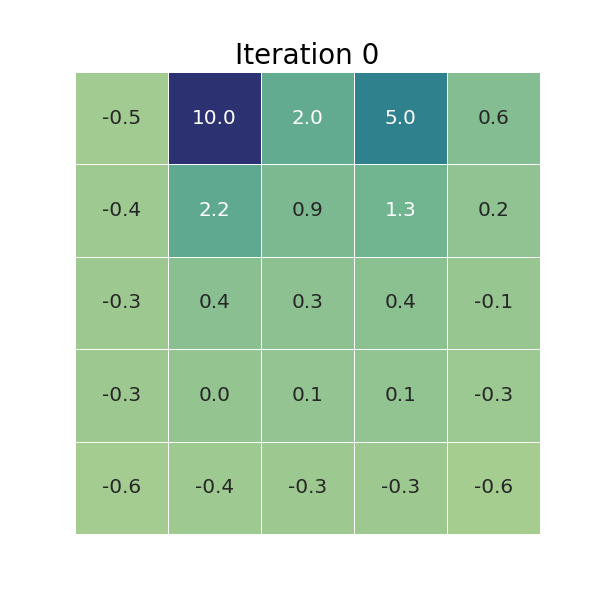
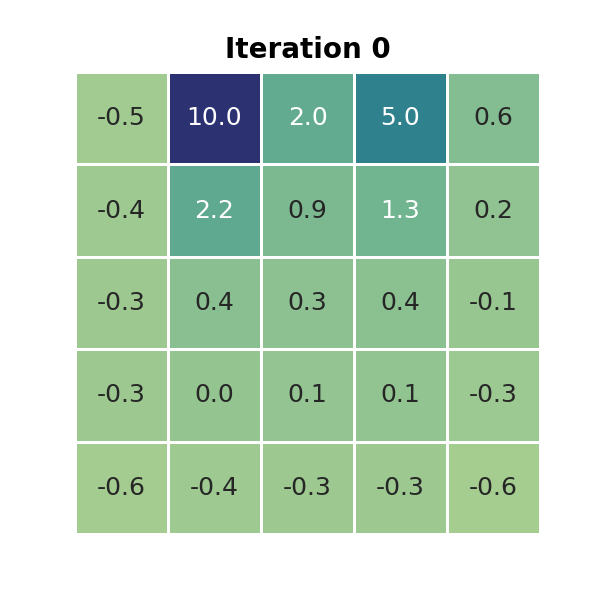
chapter 3 updated

diff --git a/chapter_3/example_3_8_optimal_grid_world.py b/chapter_3/example_3_8_optimal_grid_world.py
@@ -1,0 +1,104 @@
+import numpy as np
+import seaborn as sns
+from matplotlib import pyplot as plt
+
+# get a reward based on the state and action
+def get_reward(state, act):
+    '''
+    state: current state, tuple (row, col)
+    act: action, tuple (d_row, d_col)
+    
+    return: reward and next state
+    '''
+    if state == (0, 1):
+        return 10, (4, 1)
+    if state == (0, 3):
+        return 5, (2, 3)
+    
+    next_row = state[0] + act[0]
+    next_col = state[1] + act[1]
+
+    if not (0 <= next_row < 5 and 0 <= next_col < 5):
+        return -1, state
+
+    return 0, (next_row, next_col)
+
+# value function
+def value_update(grid_world, actions):
+    '''
+    grid_world: the 5x5 grid world map, numpy array
+    '''
+    # act_lists = np.array(['r', 'd', 'l', 'u'])
+    act_lists = np.array([0x2190, 0x2193, 0x2192, 0x2191])
+    optim_acts = []
+    for row in range(5):
+        acts = []
+        for col in range(5):
+            value_candidates = np.zeros(shape=(len(actions)))
+            
+            for i , act in enumerate(actions):
+                reward, next_state = get_reward((row, col), act)
+                next_value = grid_world[next_state]
+                value_candidates[i] = reward + gamma * next_value
+            
+            grid_world[row, col] = value_candidates.max()
+
+            max_args = np.where(value_candidates == value_candidates.max())
+            selected_acts = ''.join([chr(c) for c in act_lists[max_args].tolist()])
+            acts.append(selected_acts)
+
+        optim_acts.append(acts)
+
+    return optim_acts
+
+
+# plot the value table
+def plot_grid(grid_world, iteration=0, annot = None):
+    annot_kwargs = {
+        'fontsize': '18',
+        # 'fontweight': 'bold'
+    }
+    fmt = ''
+    file_name = 'optimal_actions'
+    
+    if annot == None:
+        annot = True
+        fmt = '.1f'
+        file_name = 'optimal_values'
+    
+    plt.figure(figsize=(6, 6), dpi=100)
+    sns.heatmap(grid_world, 
+                annot=annot,
+                annot_kws=annot_kwargs,
+                linewidths=1., 
+                # fmt='.1f',
+                fmt=fmt,
+                cmap='crest',
+                cbar=False)
+    plt.tick_params(
+                bottom=False,
+                labelbottom=False,
+                left=False,
+                labelleft=False)
+    plt.title(f"{' '.join(file_name.split('_')).capitalize()}", fontsize=20, fontweight='bold', pad=10)
+    plt.savefig(f'./plots/example_3_8/{file_name}.png')
+    # plt.show()
+
+
+if __name__ == "__main__":
+    # Initialize the grid world
+    grid_world = np.zeros(shape=(5, 5))
+    actions = [(0, -1), (1, 0), (0, 1), (-1, 0)]
+    gamma = 0.9
+
+    for i in range(40):
+        prev_grid = np.copy(grid_world)
+        optim_acts = value_update(grid_world, actions)
+        # if i % 2 == 0:
+        #     plot_grid(grid_world, i)
+        if np.allclose(prev_grid, grid_world, rtol=0.001):
+            print('done', i)
+            # print(optim_acts)
+            plot_grid(grid_world, i, annot = optim_acts)
+            plot_grid(grid_world, i, annot = None)
+            break

diff --git a/chapter_3/example_3_5_grid_world.py b/chapter_3/example_3_5_grid_world.py
@@ -40,13 +40,13 @@ def value_update(grid_world):
 # plot the value table
 def plot_grid(grid_world, iteration=0):
     annot_kwargs = {
-        'fontsize': 'x-large'
+        'fontsize': '18'
     }
     plt.figure(figsize=(6, 6), dpi=100)
     sns.heatmap(grid_world, 
                 annot=True,
                 annot_kws=annot_kwargs,
-                linewidths=.5, 
+                linewidths=1., 
                 fmt='.1f',
                 cmap='crest',
                 cbar=False)
@@ -55,8 +55,8 @@ def plot_grid(grid_world, iteration=0):
                 labelbottom=False,
                 left=False,
                 labelleft=False)
-    plt.title(f'Iteration {iteration}', fontsize=20)
-    plt.savefig(f'./plots/{iteration}.png')
+    plt.title(f'Iteration {iteration}', fontsize=20, fontweight='bold', pad=10)
+    plt.savefig(f'./plots/example_3_5/{iteration}.png')
     # plt.show()
 
 
@@ -65,10 +65,13 @@ if __name__ == "__main__":
     grid_world = np.zeros(shape=(5, 5))
     actions = [(0, 1), (0, -1), (1, 0), (-1, 0)]
     gamma = 0.9
+
+    iter_to_save = {0, 1, 4, 10, 32}
+
     for i in range(40):
         prev_grid = np.copy(grid_world)
         value_update(grid_world)
-        if i % 2 == 0:
+        if i in iter_to_save:
             plot_grid(grid_world, i)
         if np.allclose(prev_grid, grid_world, rtol=0.01):
             print('done', i)
